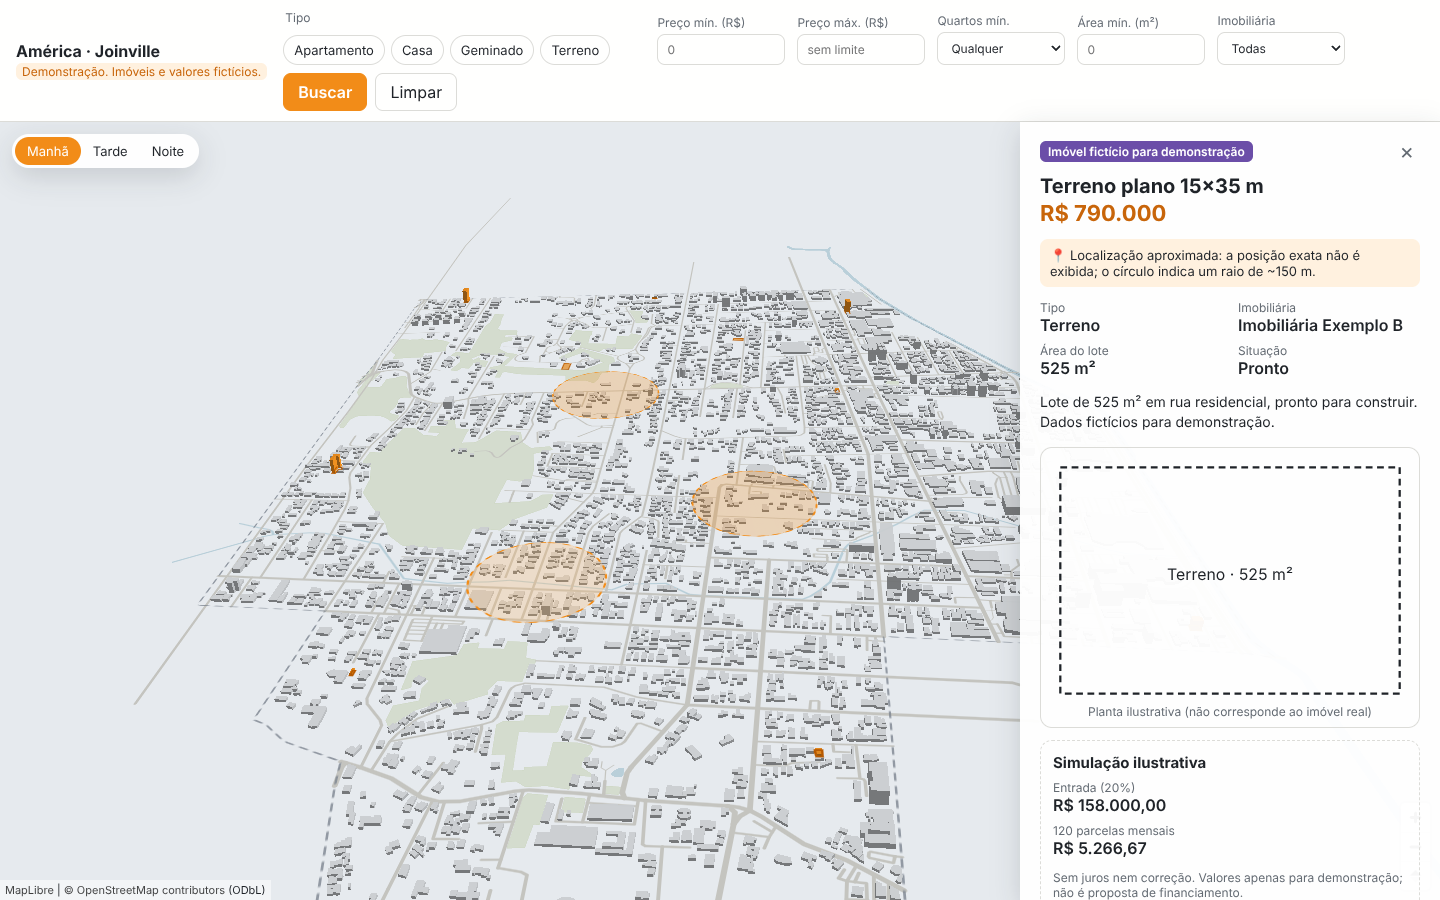
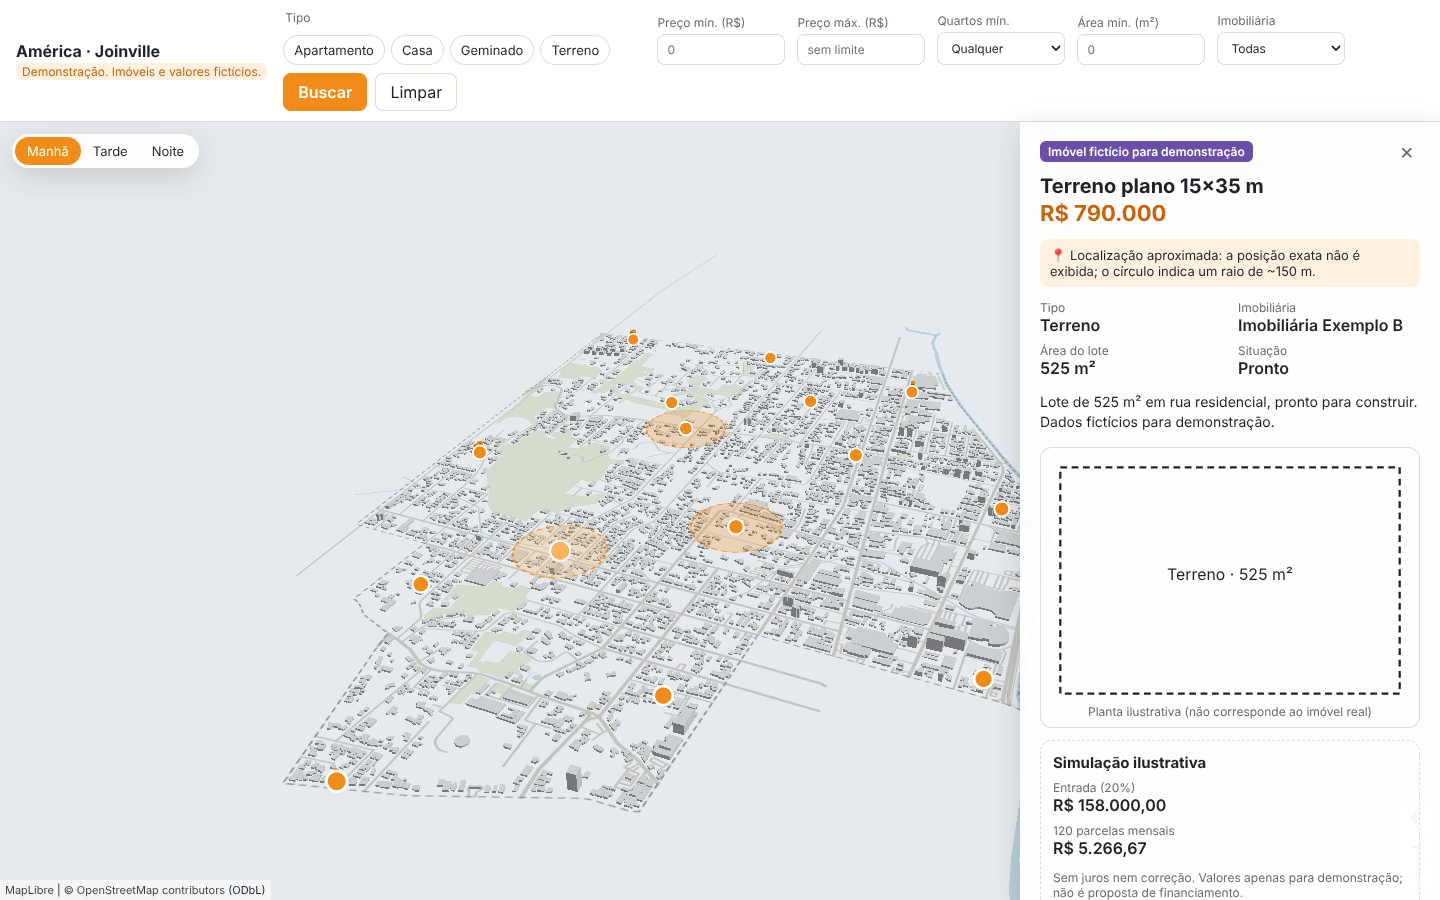
Add listing pins for the overview and frame all listings initially
Circle pins mark every listing at low zoom and fade out between z15.5 and z16.5,
where the 3D highlight is readable; they share hover/click/tooltip behaviour and
turn grey when outside the applied search. The initial camera now fits all
listings, so none starts off-screen (previously one apartment did).

Claude-Session: https://claude.ai/code/session_01MswBngYgUdv4UjeCTjJVEZ

Changed region(s): [[0.125, 0.3111, 0.7188, 1.0], [0.6875, 0.9333, 0.7188, 1.0], [0.375, 0.9956, 0.4062, 1.0]]

diff --git a/src/map/scene.ts b/src/map/scene.ts
@@ -1,6 +1,6 @@
 import { AttributionControl, LngLatBounds, Map as MlMap, NavigationControl } from 'maplibre-gl';
 import type { ExpressionSpecification, GeoJSONSource, MapGeoJSONFeature, StyleSpecification } from 'maplibre-gl';
-import type { Feature, FeatureCollection, Polygon, MultiPolygon } from 'geojson';
+import type { Feature, FeatureCollection, Point, Polygon, MultiPolygon } from 'geojson';
 import turfCircle from '@turf/circle';
 import turfBbox from '@turf/bbox';
 import type { AppData } from '../data/load';
@@ -23,7 +23,12 @@ interface ListingFeatureProps {
 }
 
 /** Layers whose features are clickable listings (filters keep only matched ones). */
-const INTERACTIVE_LAYERS = ['listing-buildings', 'listing-land', 'listing-approx-fill'];
+const INTERACTIVE_LAYERS = ['listing-pins', 'listing-buildings', 'listing-land', 'listing-approx-fill'];
+/** Both listing sources share feature ids, so hover/selected state is mirrored on them. */
+const LISTING_SOURCES = ['listings', 'listing-pins'] as const;
+/** Pins help find listings in the overview and fade out once the 3D highlight is readable. */
+const PIN_FADE_START_ZOOM = 15.5;
+const PIN_MAX_ZOOM = 16.5;
 
 export interface SceneEvents {
   onListingClick: (listingId: string) => void;
@@ -68,8 +73,9 @@ export class Scene {
     this.map.addControl(new AttributionControl({ compact: false, customAttribution: MAPLIBRE_ATTRIBUTION }), 'bottom-left');
     this.map.addControl(new NavigationControl({ visualizePitch: true }), 'bottom-right');
 
-    // fitBounds leaves a lot of empty margin with a pitched camera; start slightly closer
-    if (!window.matchMedia('(max-width: 720px)').matches) this.map.setZoom(this.map.getZoom() + 0.5);
+    // Initial view frames every listing (with the pitched camera), so none starts off-screen.
+    const all = this.unionBounds(this.data.listings.listings);
+    if (all) this.map.fitBounds(all, { padding: this.cameraPadding(), pitch: 58, bearing: -20, animate: false });
 
     this.ready = new Promise((resolve) => this.map.once('load', () => resolve()));
     this.bindInteractions();
@@ -101,6 +107,7 @@ export class Scene {
         water: { type: 'geojson', data: this.data.water },
         green: { type: 'geojson', data: this.data.green },
         listings: { type: 'geojson', data: this.listingCollection() },
+        'listing-pins': { type: 'geojson', data: this.pinCollection() },
       },
       light: { anchor: 'map', ...t.light },
       sky: { 'sky-color': t.sky.sky, 'horizon-color': t.sky.horizon, 'fog-color': t.sky.horizon },
@@ -234,6 +241,36 @@ export class Scene {
             'line-dasharray': [2, 2],
           },
         },
+        {
+          id: 'listing-pins-dimmed',
+          type: 'circle',
+          source: 'listing-pins',
+          maxzoom: PIN_MAX_ZOOM,
+          filter: dimFilter,
+          paint: {
+            'circle-color': t.dimmed,
+            'circle-radius': 4,
+            'circle-stroke-color': t.pinStroke,
+            'circle-stroke-width': 1,
+            'circle-opacity': this.pinFade(0.6),
+            'circle-stroke-opacity': this.pinFade(0.6),
+          },
+        },
+        {
+          id: 'listing-pins',
+          type: 'circle',
+          source: 'listing-pins',
+          maxzoom: PIN_MAX_ZOOM,
+          filter: matchedFilter,
+          paint: {
+            'circle-color': hoverColor(t.accent),
+            'circle-radius': ['case', ['boolean', ['feature-state', 'hover'], false], 9, 7],
+            'circle-stroke-color': t.pinStroke,
+            'circle-stroke-width': 2,
+            'circle-opacity': this.pinFade(1),
+            'circle-stroke-opacity': this.pinFade(1),
+          },
+        },
       ],
     };
   }
@@ -273,6 +310,26 @@ export class Scene {
     });
   }
 
+  private pinFade(max: number): ExpressionSpecification {
+    return ['interpolate', ['linear'], ['zoom'], PIN_FADE_START_ZOOM, max, PIN_MAX_ZOOM, 0];
+  }
+
+  /** One point per listing at the centre of its highlighted shape (same feature ids as `listings`). */
+  private pinCollection(): FeatureCollection<Point, ListingFeatureProps> {
+    return {
+      type: 'FeatureCollection',
+      features: this.listingFeatures.map((f) => {
+        const [w, s, e, n] = turfBbox(f);
+        return {
+          type: 'Feature',
+          id: f.id,
+          properties: f.properties,
+          geometry: { type: 'Point', coordinates: [(w + e) / 2, (s + n) / 2] },
+        };
+      }),
+    };
+  }
+
   private listingCollection(): FeatureCollection<Polygon | MultiPolygon, ListingFeatureProps> {
     return { type: 'FeatureCollection', features: this.listingFeatures };
   }
@@ -281,6 +338,7 @@ export class Scene {
   setMatched(matchedIds: Set<string>): void {
     for (const f of this.listingFeatures) f.properties.matched = matchedIds.has(f.properties.listingId);
     (this.map.getSource('listings') as GeoJSONSource | undefined)?.setData(this.listingCollection());
+    (this.map.getSource('listing-pins') as GeoJSONSource | undefined)?.setData(this.pinCollection());
     this.setHover(null);
   }
 
@@ -289,13 +347,18 @@ export class Scene {
     return f ? (turfBbox(f) as [number, number, number, number]) : null;
   }
 
-  fitToListings(listings: Listing[]): void {
+  private unionBounds(listings: Listing[]): LngLatBounds | null {
     const b = new LngLatBounds();
     for (const l of listings) {
       const bb = this.listingBounds(l);
       if (bb) b.extend([bb[0], bb[1]]).extend([bb[2], bb[3]]);
     }
-    if (b.isEmpty()) return;
+    return b.isEmpty() ? null : b;
+  }
+
+  fitToListings(listings: Listing[]): void {
+    const b = this.unionBounds(listings);
+    if (!b) return;
     this.map.fitBounds(b, { padding: this.cameraPadding(), maxZoom: 17.5, pitch: 55, duration: 1200 });
   }
 
@@ -311,9 +374,9 @@ export class Scene {
   }
 
   select(listingId: string | null): void {
-    if (this.selectedId !== null) this.map.setFeatureState({ source: 'listings', id: this.selectedId }, { selected: false });
+    if (this.selectedId !== null) this.setListingState(this.selectedId, { selected: false });
     this.selectedId = listingId ? (this.featureIdByListing.get(listingId) ?? null) : null;
-    if (this.selectedId !== null) this.map.setFeatureState({ source: 'listings', id: this.selectedId }, { selected: true });
+    if (this.selectedId !== null) this.setListingState(this.selectedId, { selected: true });
   }
 
   // ---------------------------------------------------------------- theme
@@ -349,6 +412,10 @@ export class Scene {
       t.accent,
     ]);
     m.setPaintProperty('listing-approx-line', 'line-color', ['case', ['==', ['get', 'matched'], false], t.dimmed, t.accent]);
+    m.setPaintProperty('listing-pins', 'circle-color', listingBuildingHover);
+    m.setPaintProperty('listing-pins', 'circle-stroke-color', t.pinStroke);
+    m.setPaintProperty('listing-pins-dimmed', 'circle-color', t.dimmed);
+    m.setPaintProperty('listing-pins-dimmed', 'circle-stroke-color', t.pinStroke);
     m.setLight({ anchor: 'map', ...t.light });
     m.setSky({ 'sky-color': t.sky.sky, 'horizon-color': t.sky.horizon, 'fog-color': t.sky.horizon });
   }
@@ -362,11 +429,15 @@ export class Scene {
       .find((f) => f.properties?.matched === true);
   }
 
+  private setListingState(id: number, state: Record<string, boolean>): void {
+    for (const source of LISTING_SOURCES) this.map.setFeatureState({ source, id }, state);
+  }
+
   private setHover(id: number | null): void {
     if (this.hoveredId === id) return;
-    if (this.hoveredId !== null) this.map.setFeatureState({ source: 'listings', id: this.hoveredId }, { hover: false });
+    if (this.hoveredId !== null) this.setListingState(this.hoveredId, { hover: false });
     this.hoveredId = id;
-    if (id !== null) this.map.setFeatureState({ source: 'listings', id }, { hover: true });
+    if (id !== null) this.setListingState(id, { hover: true });
     this.map.getCanvas().style.cursor = id !== null ? 'pointer' : '';
   }
 

diff --git a/src/map/lighting.ts b/src/map/lighting.ts
@@ -40,6 +40,8 @@ export interface Theme {
   boundary: string;
   accent: string;
   accentHover: string;
+  /** Ring around listing pins. */
+  pinStroke: string;
   /** Outline colour of highlighted listings. */
   accentStrong: string;
   land: string;
@@ -63,6 +65,7 @@ export function themeFor(tod: TimeOfDay, lat: number, lon: number): { theme: The
         accent: '#ffad42',
         accentHover: '#ffd08a',
         accentStrong: '#ffcf8a',
+        pinStroke: '#141b2d',
         land: '#f0a050',
         dimmed: '#4a5060',
         // Sun is below the horizon: a dim, cool, top-down "moonlight" so volumes stay legible.
@@ -84,6 +87,7 @@ export function themeFor(tod: TimeOfDay, lat: number, lon: number): { theme: The
       accent: '#f28c18',
       accentHover: '#ffb35c',
       accentStrong: '#b85a00',
+      pinStroke: '#ffffff',
       land: '#f6a94f',
       dimmed: '#b5b5b5',
       light: {

diff --git a/README.md b/README.md
@@ -129,6 +129,12 @@ docs/screenshots/  capturas geradas pelo verify:e2e
 - **Filtros**: o formulário altera só o estado *pendente* (`FilterStore.setPending`), e o mapa só muda com **Buscar**
   (`apply()`). **Limpar** zera o formulário e também a busca aplicada, por ser um clique explícito. Um aviso
   "Alterações não aplicadas" aparece quando o formulário difere do que está aplicado.
+- **Pinos**: um círculo laranja com borda (camada `circle` do MapLibre, sem ícones nem fontes externas) no centro de
+  cada imóvel. Ficam visíveis na visão geral e somem gradualmente entre os zooms 15,5 e 16,5, quando o prédio ou
+  terreno destacado já é legível. Clicar ou passar o mouse no pino equivale a fazê-lo no imóvel. Imóveis fora da
+  busca têm pino cinza menor e não clicável.
+- **Câmera inicial**: enquadra todos os imóveis (com a inclinação de 58°), para nenhum começar fora da tela. O limite
+  de navegação continua sendo o do bairro.
 - **Etiqueta ao passar o mouse**: elemento HTML próprio (não o `Popup` do MapLibre) que segue o cursor e mostra
   preço, tipo, área, quartos, aviso de localização aproximada e "Clique para ver detalhes". Some ao sair do imóvel,
   ao clicar e enquanto o mapa é arrastado ou girado. Imóveis esmaecidos pela busca não mostram etiqueta. Em tela de
@@ -162,8 +168,6 @@ docs/screenshots/  capturas geradas pelo verify:e2e
 - O contorno dos imóveis é desenhado só na base do volume.
 - Muitos prédios do OSM têm só `building=yes`. Um prédio "residencial" escolhido pode, na realidade, ser comercial ou
   galpão, porque o filtro depende das tags existentes.
-- Na visão geral do bairro, imóveis pequenos (casas, terrenos) aparecem como poucos pixels. A busca e a lista de
-  resultados aproximam a câmera.
 - `npm audit` aponta vulnerabilidades em `@xmldom/xmldom`, que vem pelo `osmtogeojson` 3.0.0-beta.5. É uma
   dependência só de desenvolvimento, usada no script de dados com entrada **JSON** do Overpass (o parser XML não é
   usado), e não entra no bundle do navegador. A "correção" sugerida rebaixaria para `osmtogeojson` 2.x, o que foi
@@ -177,7 +181,6 @@ docs/screenshots/  capturas geradas pelo verify:e2e
   customizada do MapLibre (o `fill-extrusion` não suporta isso).
 - Sombras reais (shadow mapping) via camada customizada.
 - Rótulos de ruas, que exigem fontes/glyphs locais.
-- Marcadores (pinos) para os imóveis em zoom baixo, para que fiquem visíveis na visão geral do bairro.
 - Dados de imóveis vindos de uma API, com paginação e URL compartilhável da busca.
 - Divisão do bundle (lazy-load do MapLibre) e simplificação da geometria dos prédios para dispositivos fracos.
 
@@ -220,9 +223,10 @@ Imóveis fictícios (`listings.json`): 15 no total.
   - todo `buildingOsmId` existe e é residencial, sem as tags excluídas;
   - terrenos dentro do limite e sem interseção com prédios, vias, água ou verde;
   - círculos aproximados contêm o local real.
-- `npm run verify:e2e` (Playwright + Chromium headless com SwiftShader), 27 checagens:
+- `npm run verify:e2e` (Playwright + Chromium headless com SwiftShader), 30 checagens:
   - camadas renderizadas;
   - atribuição e banner visíveis;
+  - na visão geral há um pino por imóvel, o pino abre a etiqueta e o painel, e os pinos somem no zoom 17,5;
   - passar o mouse mostra a etiqueta com o preço certo e cursor de mão, e sair a esconde;
   - clique abre o drawer, e Esc, o botão × e o clique no mapa vazio fecham;
   - localização aproximada;
